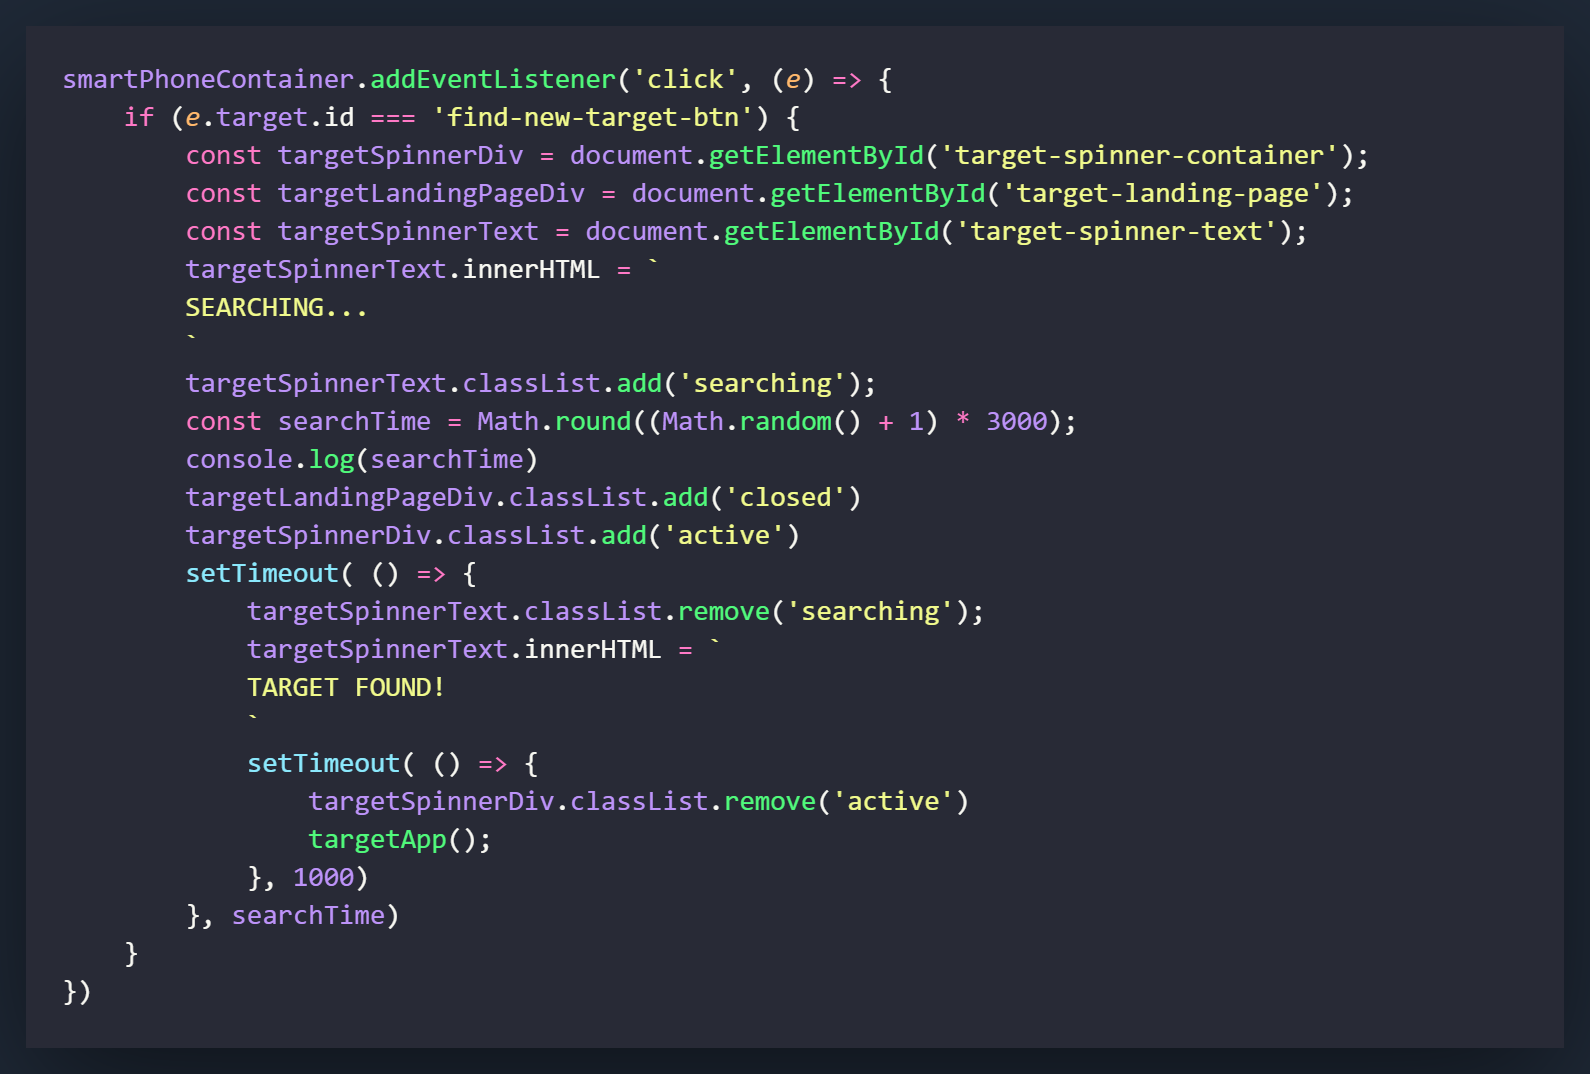
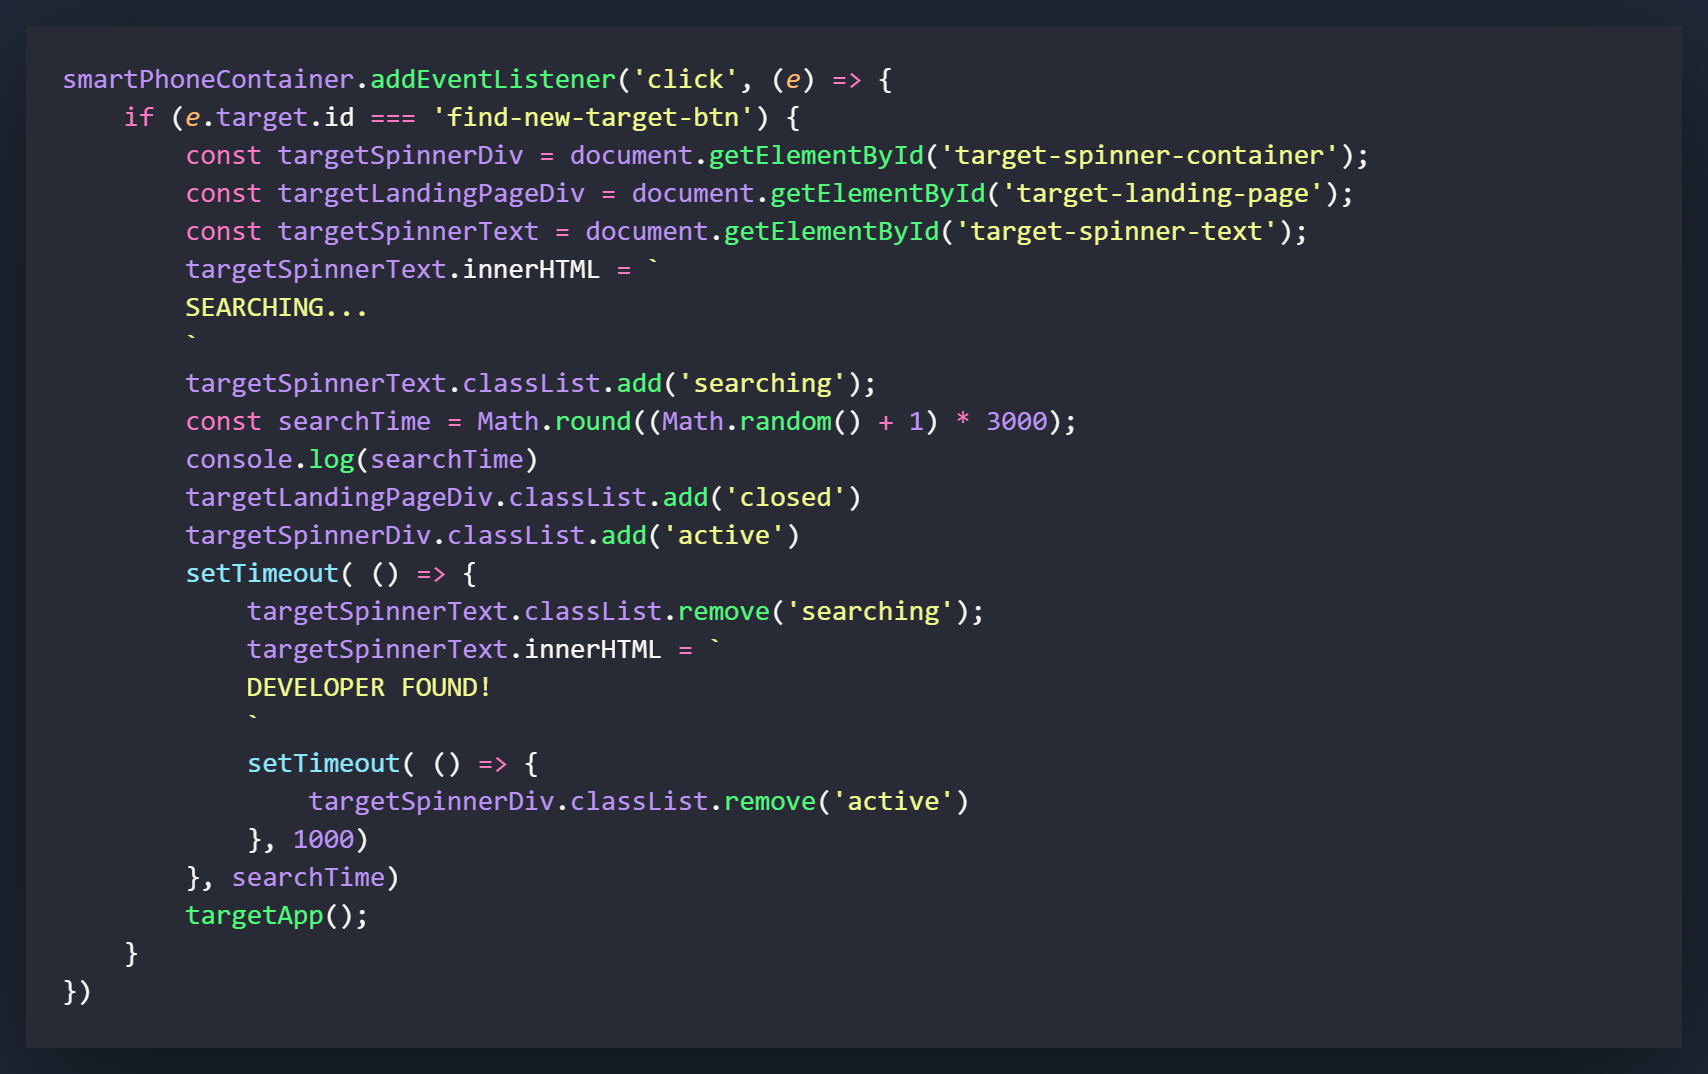
API PART 2 COMPLETE AND LIVE

diff --git a/pages/buildtargetapppart2.html b/pages/buildtargetapppart2.html
@@ -90,11 +90,11 @@
                         <p>OpenSource</p>
                     </div>
                     <div class="target-landing-page-logo">
-                        <i class="fas fa-user-alt-slash fa-7x"></i>
+                        <i class="fas fa-people-arrows fa-6x"></i>
                         <ul>
                             <li>No personal information stored on file.</li>
-                            <li>Payments exclusively made in BTC.</li>
-                            <li>OpenSource is not responsible or liable if you are criminally charged.</li>
+                            <li>Payments made exclusively in BTC.</li>
+                            <li>OpenSource is not responsible or liable if you are charged criminally.</li>
                         </ul>
                     </div>              
                 </div>
@@ -108,7 +108,7 @@
                 <!-- SPINNER CODE END -->
             </div>
             <div class="target-btn-container">
-                <button class="find-new-target-btn" id="find-new-target-btn">FIND TARGETS IN AREA</button>
+                <button class="find-new-target-btn" id="find-new-target-btn">FIND A DEVELOPER</button>
             </div>       
         </div>  
         <!-- TARGET OPEN SOURCE APP END     -->
@@ -140,34 +140,54 @@
                 </div>
                 <div class="project-inner-container">
                     <div class="project-summary active" id="project-summary">
-                        <p>Random Person API - Part 1</p>
+                        <p>In this part of the project we are going to work on what happens when the user clicks the search button. It is basically an API call that goes through instantly, but we are going to make it look like it is reaching out and searching for developers in the area.</p>
+                        <p>The HTML and CSS will change the landing page to a searching page with a rotating icon inside of it. We will add a few effects, like random time to search, to mimic what a real-life GPS search would feel like.</p>
+                        <p>The JavaScript will add some changing text to the search and implement a few random Math methods to give implement some random timing.</p>
                     </div>       
                     <div class="project-html" id="project-html">
                         <div class="ide-mockup">
                             <img src="/img/targetapppart2/target-app-html-001.png">
+                        </div>      
+                        <p>The above code is what we will be adding to the existing HTML code. If you look at the code snippet below this section, the area marked with the comment <span class="ide-purple">SPINNER CODE START</span> is where you want to start writing the above HTML code.</p>  
+                        <p>The <span class="ide-purple">.target-spinner-container</span> will be what houses the spinner content. It is basically functioning how the landing page was in the first section of this tutorial. This is what will be replacing the landing page when the user clicks the search button.</p>     
+                        <p>Inside the <span class="ide-purple">.target-spinner-container</span> div, we will have two separate sections. One will contain the spinning icon for the search and the second will contain the text that will change as the search takes place.</p>
+                        <p>The spinner I used from font-awesome can also be replaced with any loading spinner you would like. In this tutorial it will be spinning clockwise.</p>
+                        <div class="ide-mockup">
+                            <img src="/img/targetapppart2/target-app-html-002.png">
                         </div>             
-
+                        </p>
 
                     </div>
                     <div class="project-css" id="project-css">
-                      
                         <div class="ide-mockup">
                             <img src="/img/targetapppart2/target-app-css-001.png">
                         </div>
+                        <p>First we will style the <span class="ide-purple">.target-spinner-container</span>. We are going to make this div fade in when it is called, so instead of sliding in from another position, we will have it sitting below the screen on the z-axis. Many of the settings on here will relate to how the <span class="ide-purple">.target-spinner-container</span> appears on the screen but the <span class="ide-purple">z-index</span> setting and the <span class="ide-purple">opacity</span> setting will stop it from appearing when it is not needed. The transition effect on the opacity will control how the div appears and in this case it will fade in by gradually bringing the opacity from 0 to 1.</p>
+                        <p><span class="ide-purple">.target-spinner-container.active</span> settings will come into effect when the <span class="ide-purple">.active</span> class is added. This will cause the div to fade in and appear. The <span class="ide-purple">z-index setting of 3</span> will allow the div to rise above everything else and appear on the screen.</p>
                         <div class="ide-mockup">
                             <img src="/img/targetapppart2/target-app-css-002.png">
                         </div>
+                        <p><span class="ide-purple">.target-spinner</span> is the div that will be holding the icon that relates to the search. The animation setting sets what we will be doing and that will be set in the next section when we set the keyframes. Keyframes allow us to tweak certain things about animations and in this case we will be making the <span class="ide-purple">rotation</span> animation rotate from 0 degrees to 359 degrees in a clockwise motion.</p>
+                        <p>The <span class="ide-purple">.target-spinner-text</span> class is just used for styling the words that appear below the spinning icon.</p>
                         <div class="ide-mockup">
                             <img src="/img/targetapppart2/target-app-css-003.png">
                         </div>
+                        <p>To add a neat loading trick to the words below the icon, we will set it to fade in and out as it conducts its search. Like the rotation, we will accomplish this in much the same way. When the class of <span class="ide-purple">.searching</span> is added to <span class="ide-purple">.target-spinner-text</span> it will activate the searching animation that will cause the words to start at an opacity of 1 and fade out to 0 over 2 seconds. This will continue to repeat until our search concludes.</p>
            
                       
                     </div>
                     <div class="project-javascript" id="project-javascript">
-                     <div class="ide-mockup">
-                         <img src="/img/targetapppart2/target-app-javascript-001.png">
-                     </div>
-                        
+                        <div class="ide-mockup">
+                            <img src="/img/targetapppart2/target-app-javascript-001.png">
+                        </div>
+                        <p>Now we are going to build out the functionality for the <span class="ide-purple">.find-new-target-btn</span>. Clicking this button will cause the search to start and make an API call to get a random person. We are not going to deal with API quite yet but we will set everything up to appear like gears are turning as this call is made. It's similar to an optical illusion and is something that is used all over the modern web. A loading animation is used just in case the data takes a little while longer to fetch.</p>
+                        <p>The very first thing we will add is an eventListener on the smartPhoneContainer. We will pass a click event into the function (e) that will call an IF statement that will look for an element that has the target ID of <span class="ide-purple">find-new-target-button</span>. When that element is clicked on it will lead into 3 variables being created - <span class="ide-purple">targetSpinnerDiv, targetLandingPageDiv, and targetSpinnerText.</span></p>
+                        <p>The first variable we will change will be the <span class="ide-purple">innerHTML</span> of the <span class="ide-purple">targetSpinnerText</span> variable. We will add the text of <span class="ide-purple">SEARCHING</span> to the innerHTML and right after that the class of <span class="ide-purple">searching</span> to the element. If you remember in the CSS, this will cause the element to fade in and out to simulate that something is being searched.</p>
+                        <p>Now we are going to create a little bit of an optical illusion. Generally an API call will be instant and it would never be necessary to fake the illusion of a search. Honestly though, that kind of takes the fun out of things. What we will do here is create a random variable, as signified by the variable <span class="ide-purple">searchTime</span>. This searchTime variable is going to give us a random number between 1000 and 6000 milliseconds. I have added a console.log(searchTime) so you can see it for yourself.</p>
+                        <p>The next two lines are actually what will make the landing page disappear and the <span class="ide-purple">targetSpinnerDiv</span> appear. What you will find yourself doing a lot of the time with Vanilla JavaScript is finding ways to buffer in your function calls that doesn't interfere with how things appear. This means making calls at the right time so they can function before divs can change state and move around. It all happens in milliseconds and the outcome is still the same but it can make a difference with how things appear.</p>
+                        <p>Now we are going to use a setTimeout that will utilize our <span class="ide-purple">searchTime</span> variable, which you can see at the very bottom of the code block in the position that a time in milliseconds would generally be used.</p>
+                        <p>We will be using two setTimeout methods here, the second will go into effect when the first one completes. The first one will end when the <span class="ide-purple">searchTime</span> variable in milliseconds runs through. When that completes, the innerHTML that showed SEARCHING will now show DEVELOPER FOUND and the fading out pulse will stop.</p>
+                        <p>There are 2 things left that will run in this function. The first will be removing the class of <span class="ide-purple">.active</span> from the <span class="ide-purple">targetSpinnerDiv</span> causing it to fade out, and the second will be calling the <span class="ide-purple">targetApp( )</span> function.</p> In our next section we will create the function that makes the API call and fills out the DOM with info from it.</p>
                     </div>
                 </div>
             </div>

diff --git a/pages/buildtargetapppart1.html b/pages/buildtargetapppart1.html
@@ -195,15 +195,18 @@
                             <img src="/img/targetapppart1/target-app-css-005.png">
                         </div>
                         <p>The <span class="ide-purple">.target-landing-page</span> class will style the first page in the <span class="ide-purple">.target-app-inner-container</span> when the app is opened. It will contain a section for the app title, a section for the logo, and an unordered list with some of the apps fine print.</p>
+                        <p><span class="ide-purple">.target-landing-page:active</span> will only be used to change the opacity of the element when it is added. In the screenshot I kept some positional elements in there but you only really need the <span class="ide-purple">opacity</span> attribute.</p>
 
                         <div class="ide-mockup">
                             <img src="/img/targetapppart1/target-app-css-006.png">
                         </div>
+                        <p>The <span class="ide-purple">.target-landing-page-title p</span> will be used to style the paragraph element contained within the class div. It is used for styling and sizing of the title element.</p>
 
                         <div class="ide-mockup">
                             <img src="/img/targetapppart1/target-app-css-007.png">
                         </div>
-
+                        <p>These classes are what will be styling the sections that contain the logo and the unordered list on the landing page. The logo is actually a font-awesome icon so the sizing is controlled through the inline-styling in the HTML code. </p>
+                        <p>All of the settings in these 3 classes are used for positioning and styling and can be changed however you would like. The one I would consider the most important and the one to remember, would probably be setting <span class="ide-purple">list-style-type</span>to <span class="ide-purple">none</span>. This will remove the bullet points from your list items.</p> 
                         
                     
 
@@ -212,20 +215,27 @@
                     <div class="project-javascript" id="project-javascript">
                      <div class="ide-mockup">
                          <img src="/img/targetapppart1/target-app-javascript-001.png">
-                     </div>
+                    </div>
+                    <p>The first thing we want to do is add a new object to our <span class="ide-purple">appItems</span> array for the new app/icon that we will be adding. Fill in the necessary information, but most importantly make sure the class matches because that's what we will be using to open the application when it is clicked. </p>
 
-                     <div class="ide-mockup">
-                         <img src="/img/targetapppart1/target-app-javascript-002.png">
-                     </div>
-
+                    <div class="ide-mockup">
+                        <img src="/img/targetapppart1/target-app-javascript-002.png">
+                    </div>
+                    <p>To access the app we are going to use an eventListener that is very similar to what we used to open the <a href="builddigitalclock.html"><span class="ide-green">Digital Clock</span></a> app.</p>
+                    <p>On the first line we will listen on the <span class="ide-purple">smartPhoneContainer</span> that we made a variable for in the Digital Clock section. Make sure you pass an event into the function (e) so we can use it on the next line.</p>
+                    <p>Now we want to use an IF statement to determine that whatever we click on contains the class of <span class="ide-purple">'target-app'</span>, by using the <span class="ide-purple">e.target.classList.contains('target-app')</span> method. If the new icon on the homescreen does (which it should if you went through the digital clock app section of the smartphone project), it will run the following lines of code.</p>
+                    <p>The first line will change the <span class="ide-purple">appOpen</span> variable to <span class="ide-purple">true</span> to let the script know that an application is currently open.</p>
+                    <p>Perhaps the most important of the next settings is adding the class of <span class="ide-purple">open</span> to the <span class="ide-purple">targetAppDiv</span> variable. This will cause the element to activate and slide up on the Y-axis into the screen.</p>
+                    <p>The remaining lines are exactly how we had them set in the digital clock app section. We will be creating variables and adding classes when an app is open.</p>
+                    <p><span class="ide-purple">appList</span> will cause the icons from the homescreen to fade out, <span class="ide-purple">top and bottomBezel</span> will cause the pink borders to appear on the bezels.</p>
+                    
                      <div class="ide-mockup">
                          <img src="/img/targetapppart1/target-app-javascript-003.png">
                      </div>
-                     
-
-         
-
-                        
+                    <p>Now we will add the code that closes the app by pushing the home button. We have already coded most of this thanks to our Digital Clock app, all we need to do is add in our variables for our new application.</p>
+                    <p>In the ELSE IF section, we first need to declare a variable for the <span class="ide-purple">'target-app-container'</span> by using getElementById. Once this is completed, we can add and remove the classes to the element to remove it from the screen.</p>
+                    <p>Add all of the lines that are related to <span class="ide-purple">targetAppDiv</span>. Changing these will result in the element sliding out to the right and then being returned to its default position on the Y-axis under the smartphone.</p>
+                       
                     </div>
                 </div>
             </div>

diff --git a/pages/buildtargetapppart3.html b/pages/buildtargetapppart3.html
@@ -90,11 +90,11 @@
                         <p>OpenSource</p>
                     </div>
                     <div class="target-landing-page-logo">
-                        <i class="fas fa-user-alt-slash fa-7x"></i>
+                        <i class="fas fa-people-arrows fa-6x"></i>
                         <ul>
                             <li>No personal information stored on file.</li>
-                            <li>Payments exclusively made in BTC.</li>
-                            <li>OpenSource is not responsible or liable if you are criminally charged.</li>
+                            <li>Payments made exclusively in BTC.</li>
+                            <li>OpenSource is not responsible or liable if you are charged criminally.</li>
                         </ul>
                     </div>              
                 </div>
@@ -111,7 +111,7 @@
                 <!-- TARGET FOUND CONTAINER END -->
             </div>
             <div class="target-btn-container">
-                <button class="find-new-target-btn" id="find-new-target-btn">FIND TARGETS IN AREA</button>
+                <button class="find-new-target-btn" id="find-new-target-btn">FIND A DEVELOPER</button>
             </div>       
         </div>  
         <!-- TARGET OPEN SOURCE APP END     -->

diff --git a/javascript/smartphone6.js b/javascript/smartphone6.js
@@ -362,14 +362,13 @@ smartPhoneContainer.addEventListener('click', (e) => {
         setTimeout( () => {
             targetSpinnerText.classList.remove('searching');
             targetSpinnerText.innerHTML = `
-            TARGET FOUND!
+            DEVELOPER FOUND!
             `
             setTimeout( () => {
                 targetSpinnerDiv.classList.remove('active')
             }, 1000)
         }, searchTime)
         targetApp();
-    }
-    
+    }   
 })
 

diff --git a/javascript/smartphone7.js b/javascript/smartphone7.js
@@ -327,7 +327,7 @@ function targetAppRefresh() {
                 <p>OpenSource</p>
             </div>
             <div class="target-landing-page-logo">
-                <i class="fas fa-user-alt-slash fa-7x"></i>
+                <i class="fas fa-people-arrows fa-6x"></i>
                 <ul>
                     <li>No personal information stored on file.</li>
                     <li>Payments exclusively made in BTC.</li>

diff --git a/javascript/navdb.js b/javascript/navdb.js
@@ -1,5 +1,10 @@
 const projectsArray = [
     {
+        'title': 'SMART PHONE (PART 6) - API USAGE (PART 2)',
+        'id': 'target-app-part-2',
+        'link': 'pages/buildtargetapppart2.html'
+    },
+    {
         'title': 'SMART PHONE (PART 5) - API USAGE (PART 1)',
         'id': 'target-app-part-1',
         'link': 'pages/buildtargetapppart1.html'
